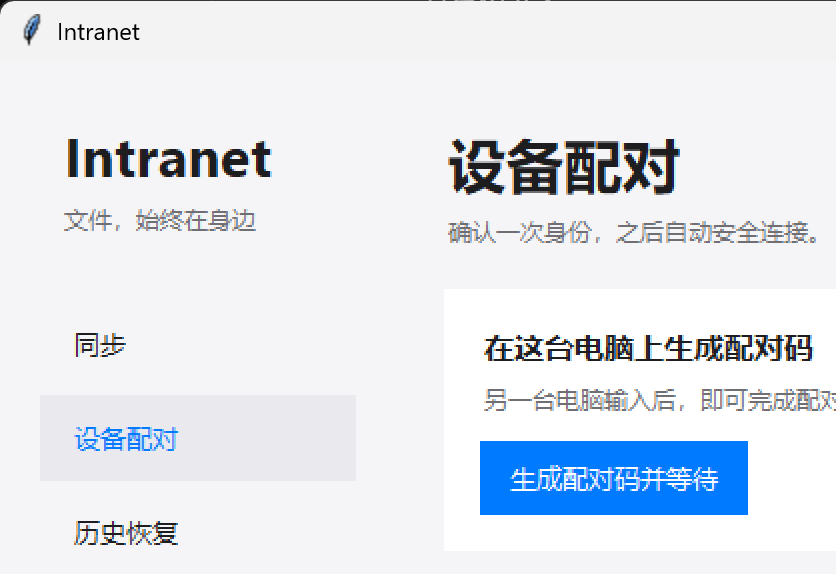
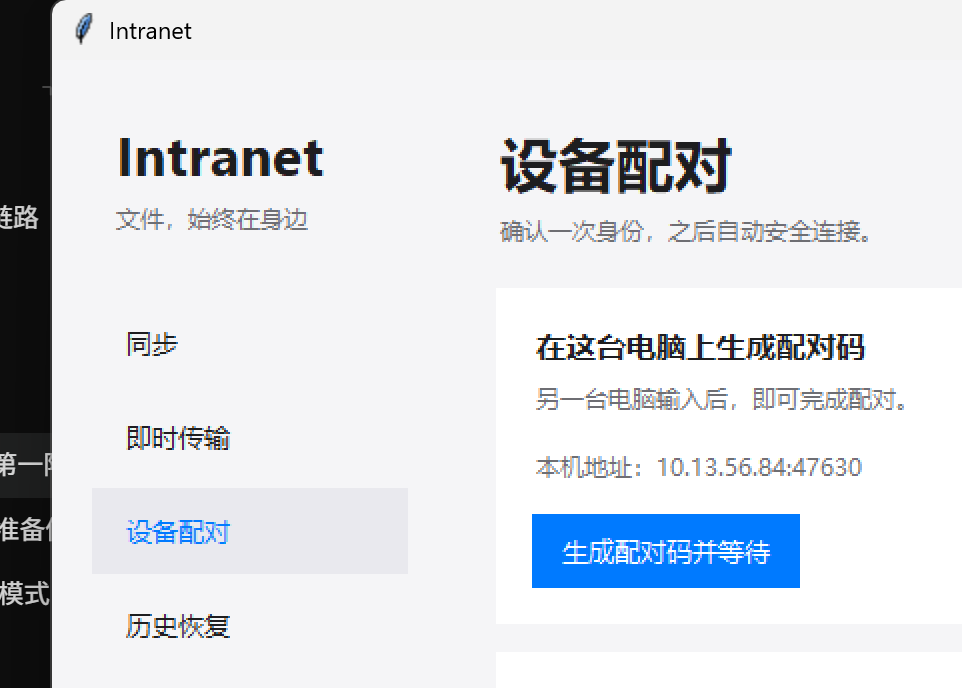
Add instant text transfer and local endpoint display

diff --git a/intranet/app.py b/intranet/app.py
@@ -8,7 +8,7 @@ from pathlib import Path
 from tkinter import filedialog, messagebox, scrolledtext, ttk
 
 from . import autostart, theme
-from .config import AppConfig, ConfigStore, network_id
+from .config import AppConfig, ConfigStore, network_id, primary_ipv4
 from .pairing import PairingManager
 from .service import IntranetService
 from .tray import TrayController
@@ -31,6 +31,7 @@ class IntranetApp:
         self.device_name = tk.StringVar(value=self.config.device_name)
         self.peer_address = tk.StringVar()
         self.pair_code = tk.StringVar()
+        self.local_endpoint = tk.StringVar(value=f"本机地址：{primary_ipv4()}:{self.config.tcp_port}")
         self.autostart_enabled = tk.BooleanVar(value=self.config.autostart)
         self.exclusions = tk.StringVar(value=", ".join(self.config.exclusions))
         self.static_peers = tk.StringVar(value=", ".join(self.config.static_peers))
@@ -69,7 +70,7 @@ class IntranetApp:
         sidebar.pack_propagate(False)
         ttk.Label(sidebar, text="Intranet", font=("Segoe UI", 20, "bold")).pack(anchor=tk.W, padx=10, pady=(0, 2))
         ttk.Label(sidebar, text="文件，始终在身边", style="Muted.TLabel").pack(anchor=tk.W, padx=10, pady=(0, 28))
-        for key, label in (("sync", "同步"), ("pairing", "设备配对"), ("history", "历史恢复"), ("settings", "设置")):
+        for key, label in (("sync", "同步"), ("transfer", "即时传输"), ("pairing", "设备配对"), ("history", "历史恢复"), ("settings", "设置")):
             button = ttk.Button(sidebar, text=label, style="Nav.TButton", command=lambda k=key: self.show_page(k))
             button.pack(fill=tk.X, pady=2)
             self.nav_buttons[key] = button
@@ -77,6 +78,7 @@ class IntranetApp:
         self.content = ttk.Frame(container, padding=(24, 22, 10, 10))
         self.content.pack(side=tk.LEFT, fill=tk.BOTH, expand=True)
         self._build_sync(self._page("sync", "同步", "在两台电脑之间，安静地保持文件一致。"))
+        self._build_transfer(self._page("transfer", "即时传输", "复制一段文字，立即送到另一台电脑。"))
         self._build_pairing(self._page("pairing", "设备配对", "确认一次身份，之后自动安全连接。"))
         self._build_history(self._page("history", "历史恢复", "被删除或覆盖的文件，可以在这里找回。"))
         self._build_settings(self._page("settings", "设置", "让同步按照你的使用习惯运行。"))
@@ -111,11 +113,50 @@ class IntranetApp:
         self.log = scrolledtext.ScrolledText(log_card, height=15, state=tk.DISABLED, wrap=tk.WORD, bd=0, bg="#FFFFFF", fg="#1D1D1F", font=("Microsoft YaHei UI", 9))
         self.log.pack(fill=tk.BOTH, expand=True)
 
+    def _build_transfer(self, page: ttk.Frame) -> None:
+        composer = self._card(page)
+        ttk.Label(composer, text="发送文字", style="Section.TLabel").pack(anchor=tk.W, pady=(0, 8))
+        self.text_composer = tk.Text(composer, height=5, wrap=tk.WORD, bd=0, bg="#F5F5F7", fg="#1D1D1F", font=("Microsoft YaHei UI", 10))
+        self.text_composer.pack(fill=tk.X, pady=(0, 10))
+        actions = ttk.Frame(composer, style="Card.TFrame")
+        actions.pack(fill=tk.X)
+        ttk.Button(actions, text="立即发送", style="Accent.TButton", command=self.send_text).pack(side=tk.LEFT)
+        ttk.Button(actions, text="清空", style="Secondary.TButton", command=lambda: self.text_composer.delete("1.0", tk.END)).pack(side=tk.LEFT, padx=8)
+        conversation = self._card(page)
+        ttk.Label(conversation, text="传输记录", style="Section.TLabel").pack(anchor=tk.W, pady=(0, 8))
+        self.conversation = tk.Text(conversation, height=10, wrap=tk.WORD, state=tk.DISABLED, bd=0, bg="#FFFFFF", fg="#1D1D1F", font=("Microsoft YaHei UI", 10))
+        self.conversation.pack(fill=tk.BOTH, expand=True)
+        ttk.Button(conversation, text="复制全部记录", style="Secondary.TButton", command=self.copy_conversation).pack(anchor=tk.W, pady=(8, 0))
+
+    def _append_message(self, role: str, text: str) -> None:
+        stamp = time.strftime("%H:%M:%S")
+        self.conversation.configure(state=tk.NORMAL)
+        self.conversation.insert(tk.END, f"{role} · {stamp}\n{text}\n\n")
+        self.conversation.configure(state=tk.DISABLED)
+        self.conversation.see(tk.END)
+
+    def send_text(self) -> None:
+        text = self.text_composer.get("1.0", "end-1c")
+        try:
+            if not self.service:
+                raise ValueError("请先启动同步并完成设备发现")
+            self.service.send_text(text)
+            self.status.set("正在发送文字…")
+        except ValueError as exc:
+            messagebox.showerror("无法发送", str(exc))
+
+    def copy_conversation(self) -> None:
+        self.root.clipboard_clear()
+        self.root.clipboard_append(self.conversation.get("1.0", "end-1c"))
+        self.status.set("传输记录已复制")
+
     def _build_pairing(self, page: ttk.Frame) -> None:
         host = self._card(page)
         ttk.Label(host, text="在这台电脑上生成配对码", style="Section.TLabel").grid(row=0, column=0, sticky=tk.W, pady=(0, 4))
         ttk.Label(host, text="另一台电脑输入后，即可完成配对。", style="CardMuted.TLabel").grid(row=1, column=0, sticky=tk.W, pady=(0, 10))
-        ttk.Button(host, text="生成配对码并等待", style="Accent.TButton", command=self.host_pair).grid(row=2, column=0, sticky=tk.W)
+        ttk.Label(host, textvariable=self.local_endpoint, style="CardMuted.TLabel").grid(row=2, column=0, sticky=tk.W, pady=(0, 10))
+        ttk.Button(host, text="复制地址", style="Secondary.TButton", command=self.copy_endpoint).grid(row=2, column=1, sticky=tk.E)
+        ttk.Button(host, text="生成配对码并等待", style="Accent.TButton", command=self.host_pair).grid(row=3, column=0, sticky=tk.W)
         join = self._card(page)
         ttk.Label(join, text="使用另一台电脑的配对码", style="Section.TLabel").grid(row=0, column=0, columnspan=2, sticky=tk.W, pady=(0, 10))
         ttk.Label(join, text="对端 IP:端口", style="Card.TLabel").grid(row=1, column=0, sticky=tk.W, pady=6)
@@ -202,7 +243,14 @@ class IntranetApp:
             messagebox.showerror("无法配对", str(exc))
 
     def _pair_code_ready(self, code: str, port: int) -> None:
-        self.root.after(0, lambda: self.pair_status.set(f"配对码：{code}　端口：{port}（5 分钟内有效）"))
+        endpoint = f"{primary_ipv4()}:{port}"
+        self.local_endpoint.set(f"本机地址：{endpoint}")
+        self.root.after(0, lambda: self.pair_status.set(f"本机地址：{endpoint}　配对码：{code}（5 分钟内有效）"))
+
+    def copy_endpoint(self) -> None:
+        self.root.clipboard_clear()
+        self.root.clipboard_append(self.local_endpoint.get().replace("本机地址：", ""))
+        self.pair_status.set("本机地址已复制")
 
     def join_pair(self) -> None:
         if not self.peer_address.get().strip() or not self.pair_code.get().strip():
@@ -268,6 +316,14 @@ class IntranetApp:
                     else:
                         self.status.set(f"最近同步：{time.strftime('%H:%M:%S', time.localtime(event['timestamp']))}")
                     self._append_log(event)
+                elif kind == "text_received":
+                    self._append_message("对方", event["text"])
+                    self.status.set("收到即时文字")
+                    self.tray.notify("收到即时文字")
+                elif kind == "text_sent":
+                    self._append_message("我", event["text"])
+                    self.text_composer.delete("1.0", tk.END)
+                    self.status.set("文字已送达")
                 elif kind == "history_cleanup":
                     self.status.set(event["text"])
                     self.tray.notify(event["text"])

diff --git a/validation/product_smoke.py b/validation/product_smoke.py
@@ -19,7 +19,7 @@ def main() -> None:
     args = parser.parse_args()
     root = (Path(__file__).resolve().parent.parent / ".validation-data" / "product-smoke").resolve()
     shutil.rmtree(root, ignore_errors=True)
-    result = {"pairing": False, "a_to_b": False, "b_to_a": False, "pause_resume": False, "gui": False}
+    result = {"pairing": False, "a_to_b": False, "b_to_a": False, "text_a_to_b": False, "text_b_to_a": False, "pause_resume": False, "gui": False}
     try:
         store_a = ConfigStore(root / "A-data")
         store_b = ConfigStore(root / "B-data")
@@ -49,6 +49,12 @@ def main() -> None:
             (root / "B" / "from-B.txt").write_text("B content", encoding="utf-8")
             wait_for(root / "A" / "from-B.txt")
             result["b_to_a"] = True
+            a.send_text("第一行\nfrom A")
+            assert wait_text(b) == "第一行\nfrom A"
+            result["text_a_to_b"] = True
+            b.send_text("来自 B\nsecond line")
+            assert wait_text(a) == "来自 B\nsecond line"
+            result["text_b_to_a"] = True
             b.toggle_pause()
             (root / "A" / "paused.txt").write_text("resume", encoding="utf-8")
             time.sleep(2)
@@ -66,14 +72,28 @@ def main() -> None:
             window = tk.Tk()
             window.withdraw()
             app = IntranetApp(window, store=ConfigStore(root / "gui-data"))
+            app.show_page("transfer")
             window.update_idletasks()
             window.update()
+            assert ":" in app.local_endpoint.get()
             app.shutdown()
             window.update()
             result["gui"] = True
         print(json.dumps(result, ensure_ascii=False, indent=2))
     finally:
         shutil.rmtree(root, ignore_errors=True)
+
+
+def wait_text(service: IntranetService, timeout: float = 15) -> str:
+    deadline = time.time() + timeout
+    while time.time() < deadline:
+        try:
+            event = service.events.get(timeout=0.1)
+        except queue.Empty:
+            continue
+        if event["type"] == "text_received":
+            return event["text"]
+    raise TimeoutError("等待即时文字超时")
 
 
 def wait_for(path: Path, timeout: float = 15) -> None:

diff --git a/intranet/network.py b/intranet/network.py
@@ -84,6 +84,14 @@ class RemotePeer:
         self.busy = True
         return SocketReader(self, current.size - offset), current
 
+    def send_text(self, text: str) -> None:
+        if len(text.encode("utf-8")) > 1_000_000:
+            raise ValueError("文字消息不能超过 1 MB")
+        send_json(self.connection, {"type": "text", "text": text})
+        response = receive_json(self.connection)
+        if response.get("type") != "text_result":
+            raise ValueError(response.get("message", "文字发送失败"))
+
     def close(self) -> None:
         self.connection.close()
 
@@ -98,9 +106,11 @@ class NodeServer:
         registry: PairingRegistry,
         host: str = "0.0.0.0",
         port: int = 47630,
+        on_text=None,
     ):
         self.engine = engine
         self.registry = registry
+        self.on_text = on_text
         self.context = server_context(key_path, certificate_path, peer_certificate)
         self.listener = socket.socket(socket.AF_INET, socket.SOCK_STREAM)
         self.listener.setsockopt(socket.SOL_SOCKET, socket.SO_REUSEADDR, 1)
@@ -134,6 +144,13 @@ class NodeServer:
                     request = receive_json(connection)
                     if request.get("type") == "manifest":
                         send_json(connection, {"type": "manifest", "records": self.engine.manifest()})
+                    elif request.get("type") == "text":
+                        text = request.get("text")
+                        if not isinstance(text, str) or len(text.encode("utf-8")) > 1_000_000:
+                            raise ValueError("无效文字消息")
+                        if self.on_text:
+                            self.on_text(text)
+                        send_json(connection, {"type": "text_result", "status": "ok"})
                     elif request.get("type") == "open":
                         requested = Record.from_wire(request["record"])
                         offset = int(request.get("offset", 0))

diff --git a/intranet/service.py b/intranet/service.py
@@ -168,6 +168,7 @@ class IntranetService:
             self.store.peer_certificate,
             self.registry,
             port=self.config.tcp_port,
+            on_text=lambda text: self.emit("text_received", text=text),
         )
         self.server.start()
         self.discovery = DiscoveryService(
@@ -245,6 +246,29 @@ class IntranetService:
                 self.emit_throttled("error", str(exc))
                 self._stop_io()
             self.stop_event.wait(0.2)
+
+    def send_text(self, text: str) -> None:
+        if not text.strip():
+            raise ValueError("请输入要传输的文字")
+        if self.paused or not self._allowed():
+            raise ValueError("请先恢复同步并连接受信任网络")
+        threading.Thread(target=self._send_text, args=(text,), daemon=True).start()
+
+    def _send_text(self, text: str) -> None:
+        peers = self._peers()
+        if not peers:
+            self.emit("error", text="尚未发现可传输文字的设备")
+            return
+        peer = peers[0]
+        try:
+            remote = RemotePeer(peer.host, peer.port, self.key, self.certificate, self.store.peer_certificate)
+            try:
+                remote.send_text(text)
+            finally:
+                remote.close()
+            self.emit("text_sent", text=text)
+        except (OSError, ValueError, ConnectionError) as exc:
+            self.emit("error", text=f"文字发送失败：{exc}")
 
     def toggle_pause(self) -> None:
         self.paused = not self.paused

diff --git a/intranet/config.py b/intranet/config.py
@@ -99,6 +99,13 @@ def ipv4_summary() -> dict:
         return {"interfaces": []}
 
 
+def primary_ipv4() -> str:
+    interfaces = ipv4_summary()["interfaces"]
+    if interfaces:
+        return str(interfaces[0]["IPv4"])
+    return "127.0.0.1"
+
+
 def broadcast_for(address: str, prefix: int) -> str:
     interface = ipaddress.IPv4Interface(f"{address}/{prefix}")
     return str(interface.network.broadcast_address)

diff --git a/intranet/__init__.py b/intranet/__init__.py
@@ -1,3 +1,3 @@
 """Peer-to-peer folder synchronization for trusted local networks."""
 
-__version__ = "0.2.0"
+__version__ = "0.2.1"

diff --git a/README.md b/README.md
@@ -9,7 +9,7 @@
   <img src="https://img.shields.io/badge/Windows-10%2F11-0078D4?logo=windows&logoColor=white" alt="Windows 10/11">
   <img src="https://img.shields.io/badge/Python-3.10%2B-3776AB?logo=python&logoColor=white" alt="Python 3.10+">
   <img src="https://img.shields.io/badge/TLS-1.2%2F1.3-007AFF" alt="TLS 1.2/1.3">
-  <img src="https://img.shields.io/badge/Version-0.2.0-34C759" alt="Version 0.2.0">
+  <img src="https://img.shields.io/badge/Version-0.2.1-34C759" alt="Version 0.2.1">
 </p>
 
 <p align="center">
@@ -36,6 +36,7 @@
 | 历史恢复 | 被覆盖或删除的文件可以恢复，默认保留 30 天、最多 20 GB |
 | 自动发现 | 支持子网定向广播；广播不可用时使用静态 `IP:端口` |
 | 安全连接 | 一次性配对码、设备证书、双向 TLS 和受信任网络 |
+| 即时文字 | 多行文字通过现有双向 TLS 即时收发，接收记录可复制且不写入普通日志 |
 | 后台体验 | 自动同步、暂停与恢复、托盘通知、Windows 登录自启动 |
 | 界面与安装 | 苹果简约风、主界面、历史恢复、当前用户安装与卸载 |
 
@@ -99,6 +100,14 @@ python main.py --background
 
 <p align="center">
   <img src="docs/images/intranet-pairing.png" alt="Intranet 设备配对界面" width="86%">
+</p>
+
+## 即时文字传输
+
+在“即时传输”页面粘贴文字并点击“立即发送”，即可通过已配对设备的双向 TLS 通道发送到另一台电脑。配对页会同时显示本机 `IP:端口`，并支持一键复制。
+
+<p align="center">
+  <img src="docs/images/intranet-transfer.png" alt="Intranet 即时文字传输界面" width="86%">
 </p>
 
 ## 数据与安全规则

diff --git a/docs/progress/current.md b/docs/progress/current.md
@@ -7,7 +7,7 @@
 
 ## Now
 
-第二阶段产品外壳已实现：主界面、一次性配对、受信任网络、后台自动同步、静态地址、暂停恢复、历史恢复、排除项、托盘、Windows 登录自启动和当前用户安装包。
+第二阶段产品外壳已实现：主界面、一次性配对、受信任网络、后台自动同步、即时多行文字收发、静态地址、暂停恢复、历史恢复、排除项、托盘、Windows 登录自启动和当前用户安装包。配对页同时显示并支持复制本机 IP:端口。
 
 `python -m validation.product_smoke --gui` 的配对、A→B、B→A、暂停恢复和 GUI/托盘生命周期全部通过。UI 已统一为苹果简约风：浅灰背景、白色卡片、左侧导航和单一蓝色强调，四个页面已实际渲染检查。打包应用后台启动通过；最终安装器通过静默安装、安装后启动、卸载和注册表恢复。证据见 `docs/evidence/product-validation.json`。
 

diff --git a/docs/architecture/overview.md b/docs/architecture/overview.md
@@ -9,7 +9,7 @@
 
 - `intranet/engine.py`：稳定文件身份、版本、冲突、历史、排除、原子替换和断点文件。
 - `intranet/security.py`：配对注册、证书、网络策略和 TLS 上下文。
-- `intranet/network.py`：清单与内容协议、偏移续传、双向证书校验。
+- `intranet/network.py`：清单与内容协议、偏移续传、即时文字消息、双向证书校验。
 - `intranet/pairing.py`：一次性配对码和证书交换。
 - `intranet/config.py`：用户配置、当前网络与定向广播计算。
 - `intranet/service.py`：受信任网络门禁、UDP 发现、静态地址、后台同步、暂停和历史清理。

diff --git a/PROJECT.md b/PROJECT.md
@@ -11,7 +11,7 @@
 
 ## Scope
 
-首版服务两台固定 Windows 电脑和一组同步根目录，包含配对、后台同步、托盘、历史恢复、自启动和安装包。第三阶段通过 Tailscale 提供按需文件传输助手，详见路线图。
+首版服务两台固定 Windows 电脑和一组同步根目录，包含配对、后台同步、即时文字传输、托盘、历史恢复、自启动和安装包。第三阶段通过 Tailscale 提供按需文件传输助手，详见路线图。
 
 ## Run
 
